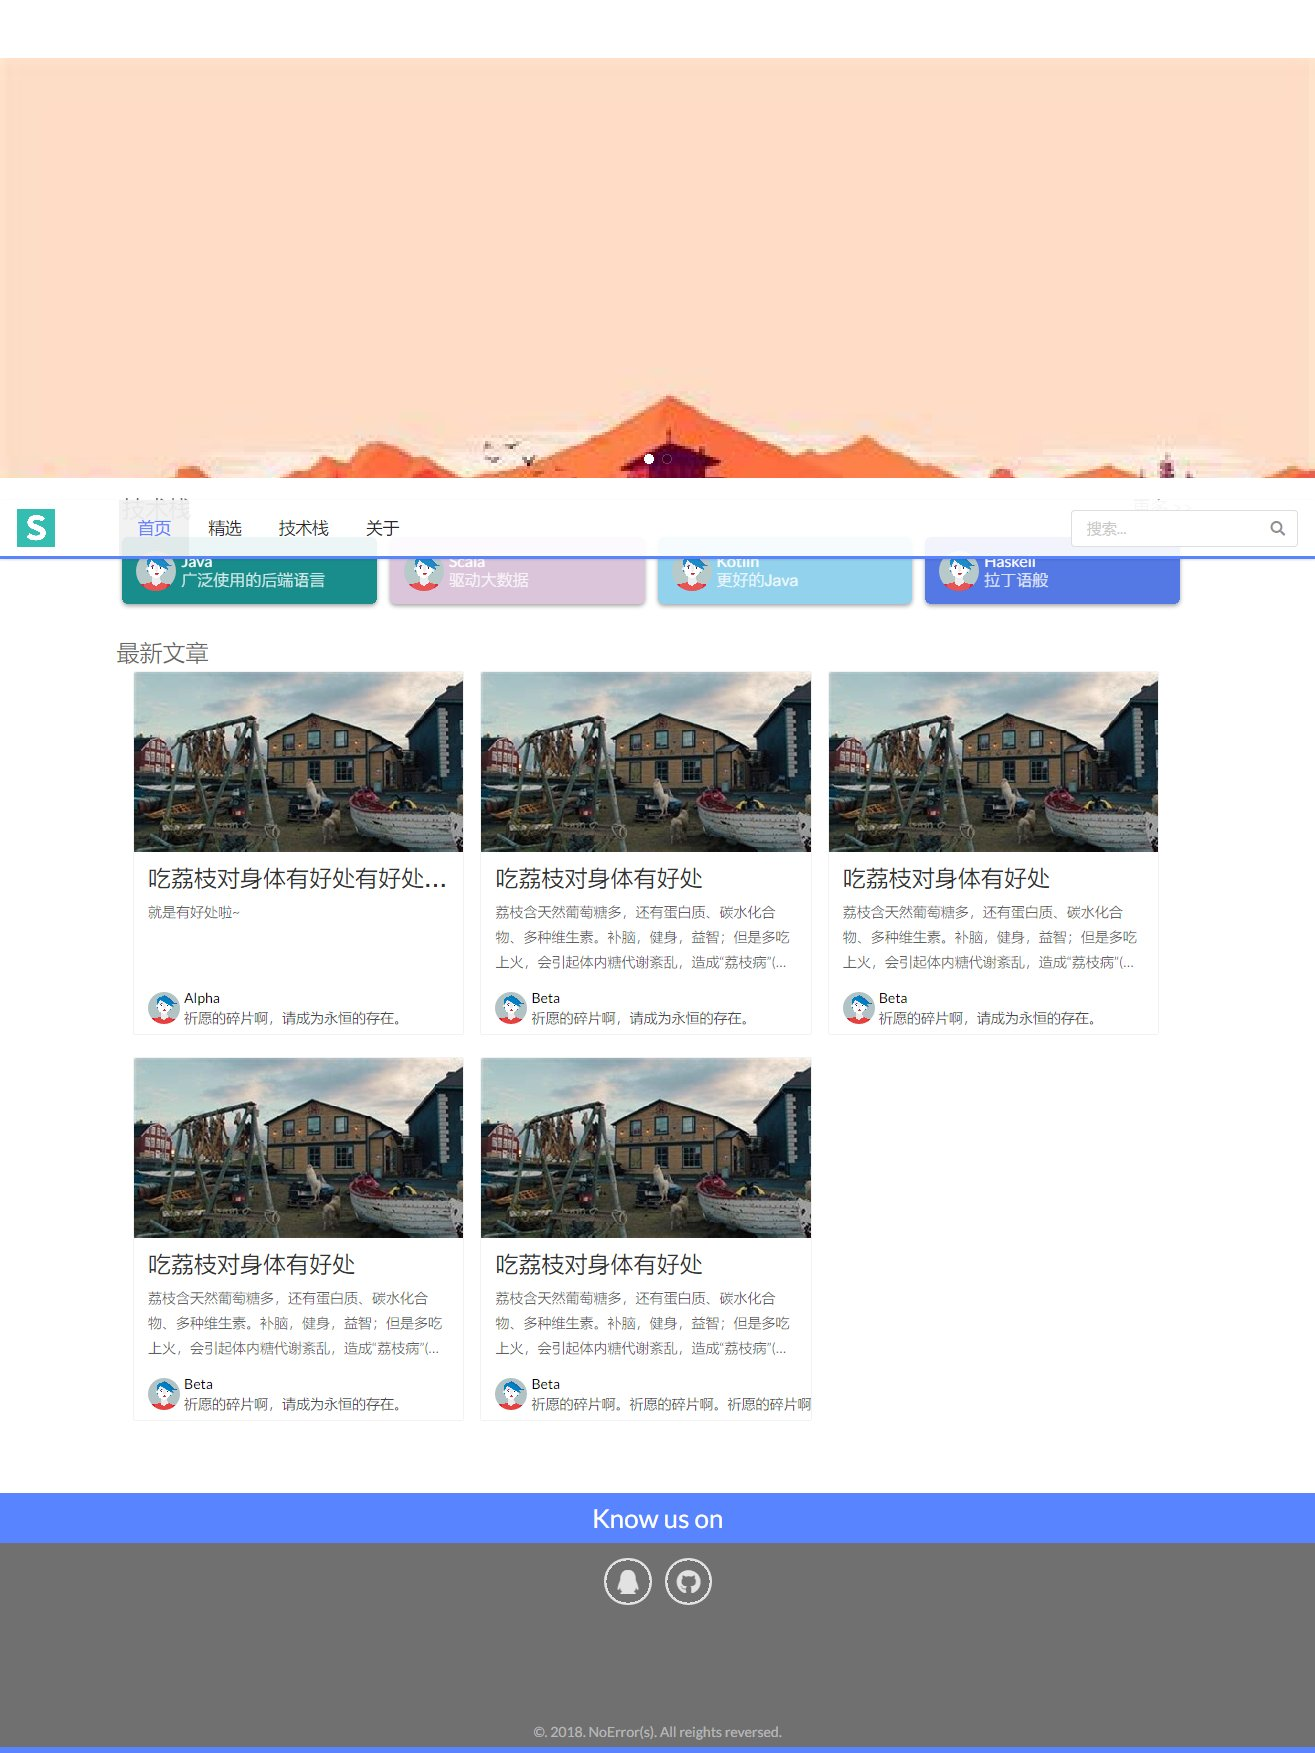
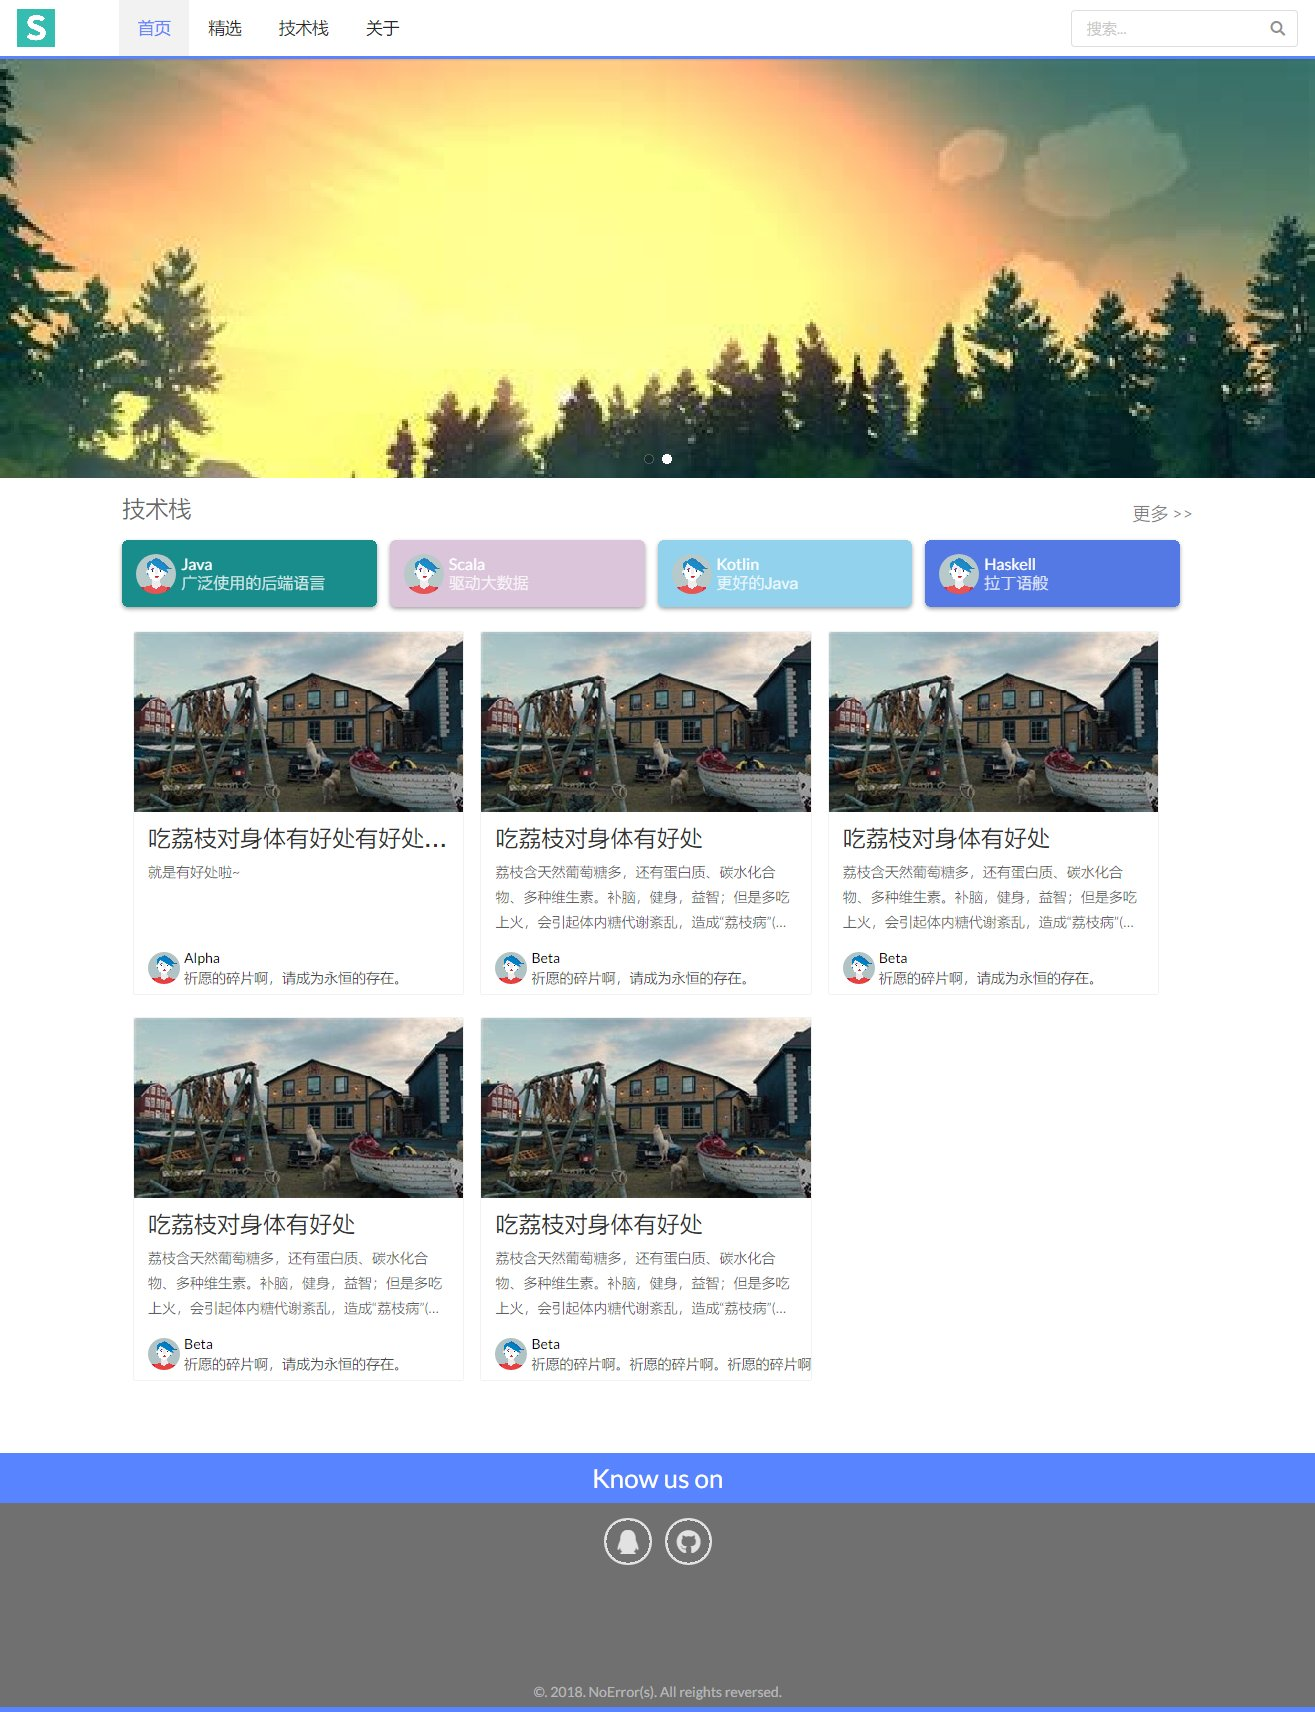
bugfound. not fix yet.

diff --git a/src/router/Home.vue b/src/router/Home.vue
@@ -12,7 +12,7 @@
       </div>
 
       <div id="article-list" class="ui vertical stripe segment content">
-        <p class="function-name narrow-hidden">最新文章</p>
+        <!-- 显示问题。 <span class="function-name narrow-hidden">最新文章</span> -->
         <div id="article-cards" class="ui three column stackable grid">
           <ArticleCard class="five wide column" v-for="articleCard in articleCards" :key="articleCard._key" :article="articleCard.article"
             :author="articleCard.author" />
@@ -58,6 +58,8 @@
     color: rgba(0, 0, 0, 0.5);
     font-size: 18px;
     font-weight: 400;
+    height: 30px;
+    line-height: 30px;
   }
 
   .function-more:hover {
